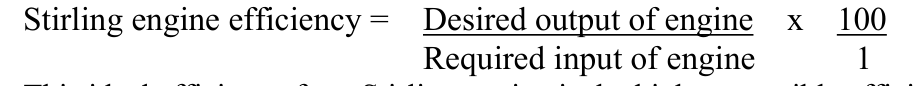
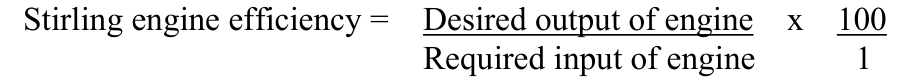
Landing generators after Engineering batch 6 (1651 -> 1886 cards); 2013 HL Q1(p) crop trimmed
Batch 6 QA, on the bank at 26437b0cf:
- DOM: 373 cards (the 139 shipped cards batch 6 changed, and the 234 new
  2013 HL/OL and 2012 HL/OL cards), each card's revealed DOM dumped and
  checked for its question, every row and every figure: 0 with a problem.
- Screenshots: 373 cards x desktop/phone x light/dark = 1492 captures. The
  two blank-panel scans (blankscan + the desktop header-band scan) flagged
  65 captures with an empty scheme panel (capture timing); all 65 reshot
  with content (one twice, at a longer render budget), 0 suspects left.
- Looking through the captures found one defect, fixed here: the 2013 HL
  Q1(p) solution crop (the efficiency formula) took in the tops of the next
  printed line under it. Its box now stops between the formula's
  descenders and that line's ascenders (y 296 -> 293.6, measured on the
  page's spans); republished with --replace, the card unchanged.
- typecheck, lint, build clean; vitest 10 files 668/668.

Generators: build-subject-showcase moves only Engineering (markBankCards
1651 -> 1886); ask-topics writes no change.

Engineering: 2314/2627 asks covered (88.1%), 0 excluded, 313 open, 1886
cards, 0 orphans, 24 census flags (all 2010-2011).

Claude-Session: https://claude.ai/code/session_01F7po1ZCX37raVNuURVHUT1

diff --git a/scripts/markbank/authoring/eng_residue/y2013_hl.py b/scripts/markbank/authoring/eng_residue/y2013_hl.py
@@ -96,7 +96,7 @@ CROPS = {
         doc='scheme', page=6, rect=(330, 322, 578, 412), solution=True, ref='2013 HL Q1(k)'),
     # Q1(p)'s efficiency formula, a stacked fraction the text layer flattens.
     'engineering-2013-HL-scheme-q1p-sol': dict(
-        doc='scheme', page=7, rect=(100, 265.5, 430, 296), solution=True, ref='2013 HL Q1(p)'),
+        doc='scheme', page=7, rect=(100, 265.5, 430, 293.6), solution=True, ref='2013 HL Q1(p)'),
     'engineering-2013-HL-scheme-q2b-sol': dict(
         doc='scheme', page=9, rect=(100, 355, 500, 600), solution=True, ref='2013 HL Q2(b)'),
     'engineering-2013-HL-scheme-q2bi-sol': dict(
